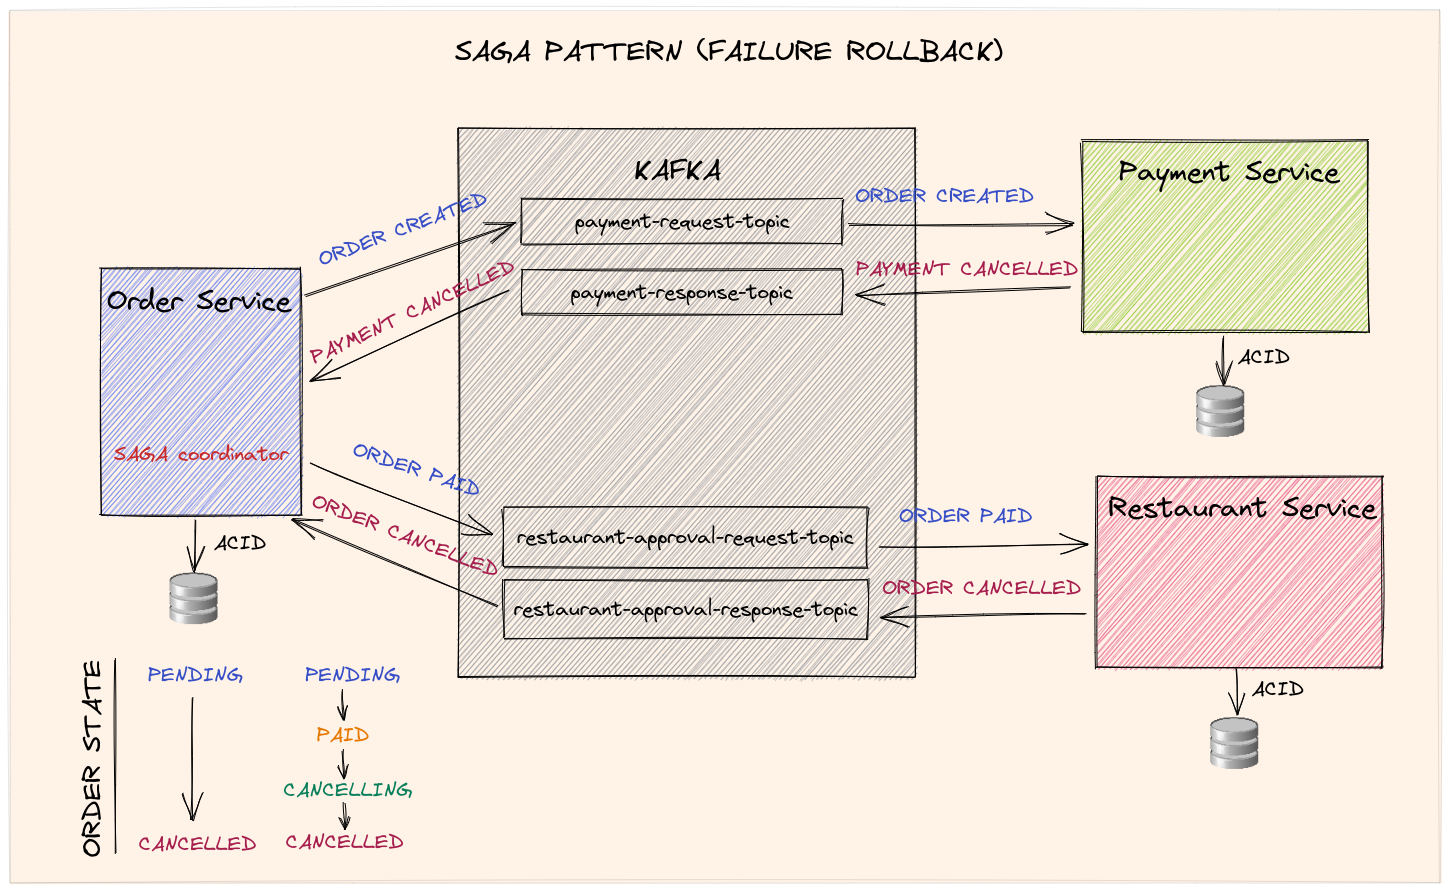
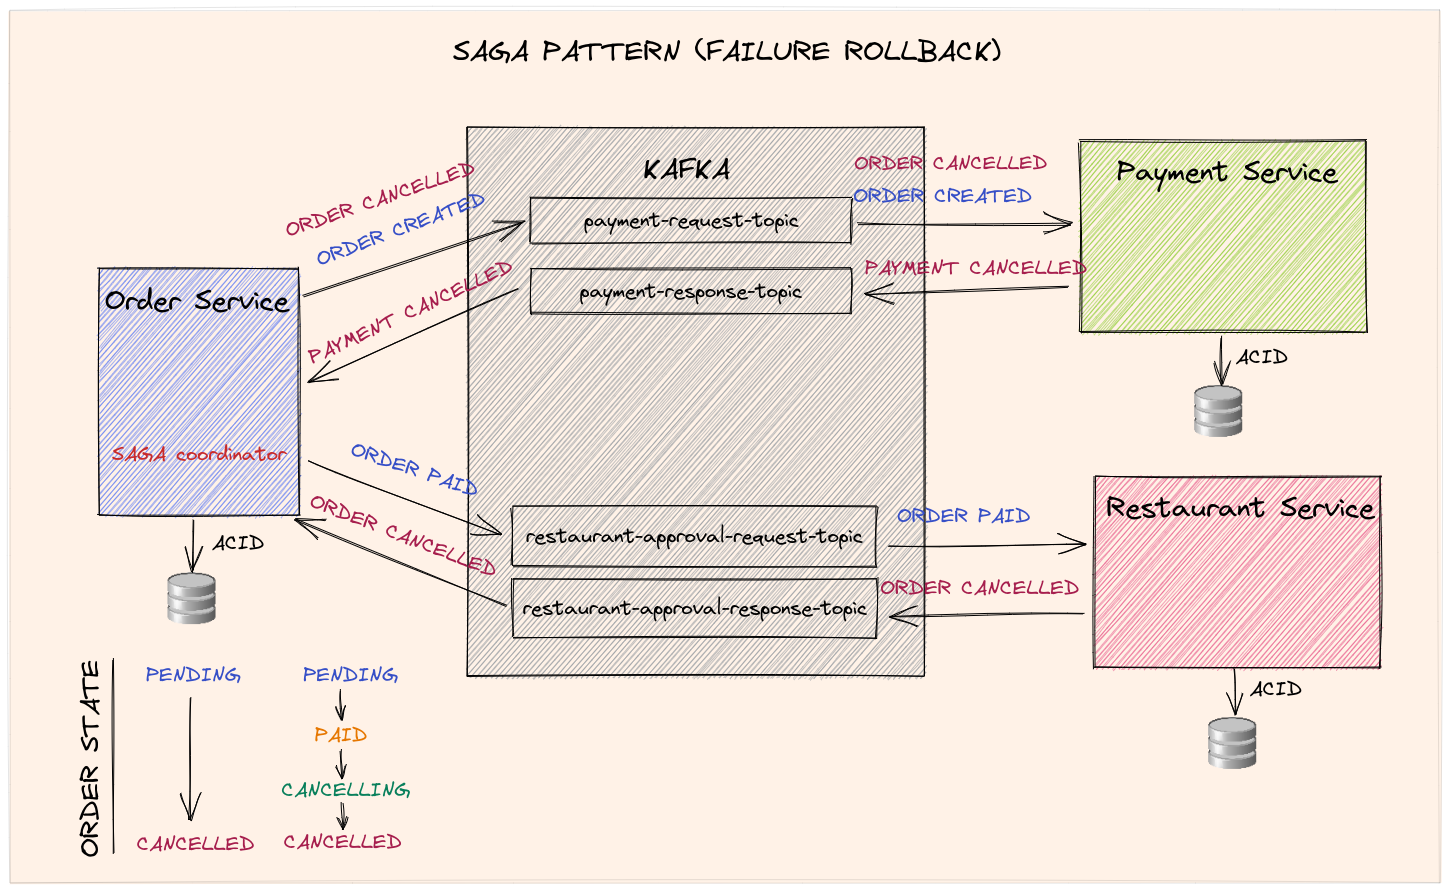
doc(README.md): 실패 메세지 플로우 그림 수정 및 설명 추가

diff --git a/README.md b/README.md
@@ -190,3 +190,17 @@ GET /orders/f410ab7d-8678-49b4-84d6-35c00933932e
 <p>
     <img src="img/saga(failure).png"/>
 </p>
+
+### 결제 실패시
+
+결제 실패시, 주문 상태를 PENDING에서 CANCELLED로 바꾸고 실패처리합니다.
+
+### 식당 승인 거부 및 실패시
+
+식당 승인 요청을 하기 위해서는 결제가 성공적으로 완료되어야하기 때문에, 해당 주문의 현재 주문상태는 PAID 입니다.
+
+1. 결제를 완료하고 식당 승인 실패시, Order Service에서 주문 상태를 PAID 에서 CANCELLING 으로 바꿉니다.
+2. Payment Service에 ORDER CANCELLED 라는 결제철회 메세지를 전송합니다.
+3. 결제가 성공적으로 철회되면, Payment Service가 Order Service에게 PAYMENT CANCELLED
+   메세지를 전송하여 철회 완료를 알립니다.
+4. Order Service 해당 메세지를 수신하고, 주문 상태를 CANCELLED로 바꾸고 실패처리합니다.
